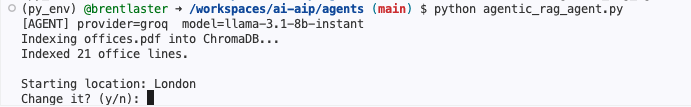
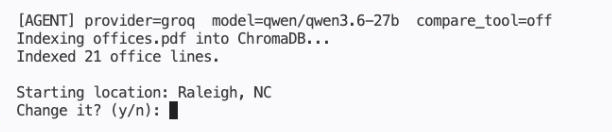
updates for July

Changed region(s): [[0.0, 0.028, 0.9003, 0.5607], [0.0, 0.6449, 0.4657, 0.9813]]

diff --git a/agents/agentic_rag_agent.py b/agents/agentic_rag_agent.py
@@ -32,7 +32,7 @@ DEFAULT_LOCATION = {"city": "Raleigh, NC", "lat": 35.7796, "lon": -78.6382}
 USE_GROQ = os.environ.get("AGENT_PROVIDER", "").strip().lower() == "groq" and os.environ.get("GROQ_API_KEY", "").strip()
 if USE_GROQ:
     client = OpenAI(base_url="https://api.groq.com/openai/v1", api_key=os.environ["GROQ_API_KEY"].strip())
-    MODEL = os.environ.get("AGENT_MODEL", "llama-3.1-8b-instant").strip()
+    MODEL = os.environ.get("AGENT_MODEL", "qwen/qwen3.6-27b").strip()
 else:
     client = OpenAI(base_url="http://localhost:11434/v1", api_key="ollama")
     MODEL = os.environ.get("AGENT_MODEL", "llama3.2").strip()

diff --git a/agents/curr_conv_agent.py b/agents/curr_conv_agent.py
@@ -35,7 +35,7 @@ def build_model():
     provider = os.environ.get("AGENT_PROVIDER", "").strip().lower()
     groq_key = (os.environ.get("GROQ_API_KEY") or "").strip()
     if provider == "groq" and groq_key:
-        model_name = os.environ.get("AGENT_MODEL", "llama-3.1-8b-instant").strip()
+        model_name = os.environ.get("AGENT_MODEL", "qwen/qwen3.6-27b").strip()
         if not model_name.startswith("groq/"):
             model_name = "groq/" + model_name
         print(f"[MODEL] provider=groq  model={model_name}")

diff --git a/agents/test_agent_reasoning.py b/agents/test_agent_reasoning.py
@@ -16,7 +16,7 @@ def build_test_model():
     provider = os.environ.get("AGENT_PROVIDER", "").strip().lower()
     groq_key = os.environ.get("GROQ_API_KEY", "").strip()
     if provider == "groq" and groq_key:
-        name = os.environ.get("AGENT_MODEL", "llama-3.1-8b-instant").strip()
+        name = os.environ.get("AGENT_MODEL", "qwen/qwen3.6-27b").strip()
         if not name.startswith("groq/"):
             name = "groq/" + name
         print(f"[MODEL] provider=groq  model={name}")

diff --git a/agents/secure_agent.py b/agents/secure_agent.py
@@ -24,7 +24,7 @@ def build_model():
     provider = os.environ.get("AGENT_PROVIDER", "").strip().lower()
     groq_key = os.environ.get("GROQ_API_KEY", "").strip()
     if provider == "groq" and groq_key:
-        name = os.environ.get("AGENT_MODEL", "llama-3.1-8b-instant").strip()
+        name = os.environ.get("AGENT_MODEL", "qwen/qwen3.6-27b").strip()
         if not name.startswith("groq/"):
             name = "groq/" + name
         print(f"[MODEL] provider=groq  model={name}")

diff --git a/agents/vulnerable_agent.py b/agents/vulnerable_agent.py
@@ -19,7 +19,7 @@ def build_model():
     provider = os.environ.get("AGENT_PROVIDER", "").strip().lower()
     groq_key = os.environ.get("GROQ_API_KEY", "").strip()
     if provider == "groq" and groq_key:
-        name = os.environ.get("AGENT_MODEL", "llama-3.1-8b-instant").strip()
+        name = os.environ.get("AGENT_MODEL", "qwen/qwen3.6-27b").strip()
         if not name.startswith("groq/"):
             name = "groq/" + name
         print(f"[MODEL] provider=groq  model={name}")

diff --git a/labs.md b/labs.md
@@ -1,11 +1,11 @@
 # Implementing AI Agents in Python
 ## Using frameworks, MCP, and RAG for agentic AI
 ## Session labs 
-## Revision 1.15 - 06/16/26
+## Revision 1.16 - 07/28/26
 
 **Follow the startup instructions in the README.md file IF NOT ALREADY DONE!**
 
-**If you have to restart your codespace, for best performance, you may need to repeat steps 4 and 5 in the README to set your Groq key and warmup the Codespace again.** 
+**If you have to restart your codespace, for best performance, you may need to repeat steps 5 and 6 in the README to set your Groq key and warmup the Codespace again.** 
 
 **NOTE: To copy and paste in the codespace, you may need to use keyboard commands - CTRL-C and CTRL-V. Chrome may work best for this.**
 
@@ -261,7 +261,7 @@ python curr_conv_agent.py
 5. As it starts, look for the model line at the top - it confirms which model you're using:
 
 ```
-[MODEL] provider=groq  model=groq/llama-3.1-8b-instant      (if you set up Groq)
+[MODEL] provider=groq  model=groq/qwen/qwen3.6-27b      (if you set up Groq)
 [MODEL] provider=ollama  model=ollama_chat/llama3.2          (local fallback)
 ```
 
@@ -338,7 +338,7 @@ convert 300
 - **Live tools & APIs** - retrieval + geocoding + distance + LLM facts.
 - **Self-checks & retries** - a validation gate; the agent retries or honestly declines.
 
-> **Model note:** because this is model-driven, it needs a capable model. We'll use the free hosted **8B on Groq** (Step 1). The local `llama3.2` default is not reliable enough for this multi-tool agent. 
+> **Model note:** because this is model-driven, it needs a capable model. We'll use the free hosted **qwen3.6-27b model on Groq** (Step 1). The local `llama3.2` default is not reliable enough for this multi-tool agent. 
 
 ---
 
@@ -378,7 +378,7 @@ Merge the **four clearly-marked sections** in turn - each has a `>>>>> MERGE SEC
 python agentic_rag_agent.py
 ```
 
-At the top you should see `[AGENT] provider=groq  model=llama-3.1-8b-instant`, confirming it's using the hosted model.
+At the top you should see `[AGENT] provider=groq  model=qwen/qwen3.6-27b`, confirming it's using the hosted model.
 
 
    ![Running agent](./images/aip49.png?raw=true "Running agent") 
@@ -437,7 +437,7 @@ export USE_COMPARE_TOOL=1
 
 <br><br>
 
-8. Start the agent again and run the **same query from step 6**, still on the 8B model. Confirm the top line now shows `compare_tool=on`. This time the agent calls `compare_distances` - watch for the `[COMPARE]` line listing both offices ranked by miles - and answers correctly, because the "smaller = closer" deduction now happens deterministically in code instead of in the model's head.
+8. Start the agent again and run the **same query from step 6**, still on the qwen3.6-27b model. Confirm the top line now shows `compare_tool=on`. This time the agent calls `compare_distances` - watch for the `[COMPARE]` line listing both offices ranked by miles - and answers correctly, because the "smaller = closer" deduction now happens deterministically in code instead of in the model's head.
 
 ```
 Which is closer to me, HQ or the Midwest office?
@@ -885,10 +885,10 @@ Look at `test_real_agent_tool_selection()` - it checks:
 - Building agents that resist goal hijacking
 - The difference between vulnerable and hardened agents
 
-**NOTE:** It's possible that at this point, you might get an error from Groq about `Rate limit reached for model llama-3.1-8b-instant`. If you do, you can exit the running agent with `exit`. Then run the command below in the terminal.
+**NOTE:** It's possible that at this point, you might get an error from Groq about `Rate limit reached for model qwen/qwen3.6-27b`. If you do, you can exit the running agent with `exit`. Then fall back to the local model for this lab (the security defenses are deterministic and work on any model) by running the command below in the terminal.
 
 ```
-export AGENT_MODEL=llama-3.3-70b-versatile
+unset AGENT_PROVIDER
 ```
 
 After this, restart the agent and try the prompt again.
